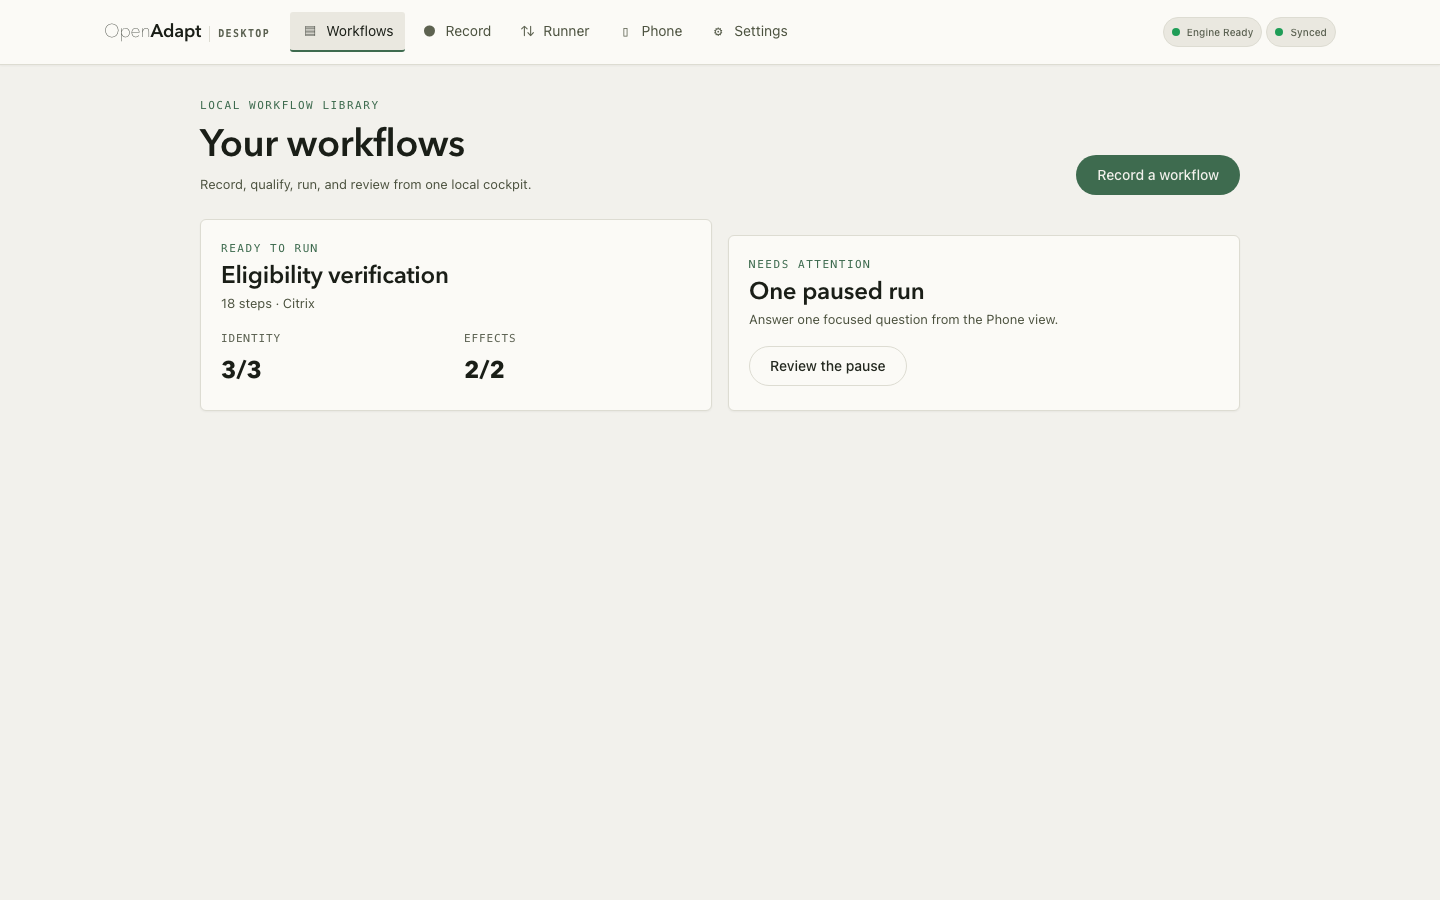
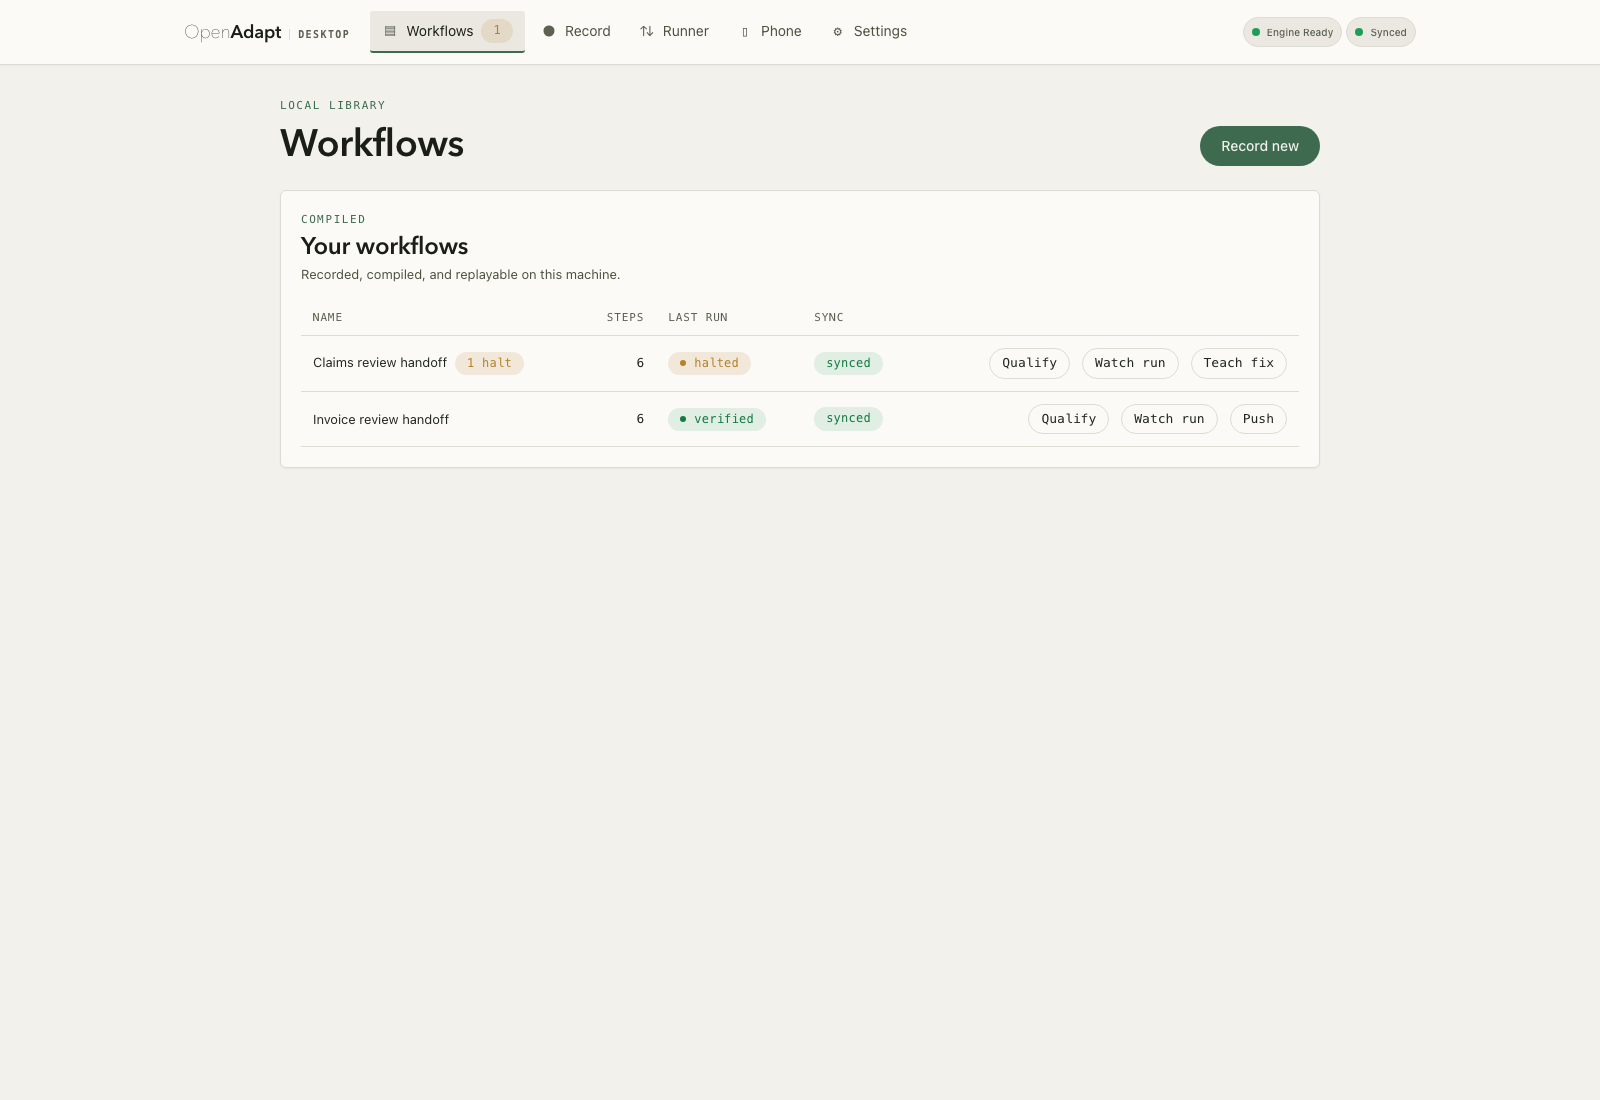
docs: bind desktop visual provenance

diff --git a/docs/desktop/install.md b/docs/desktop/install.md
@@ -105,8 +105,8 @@ The [troubleshooting guide](../guides/troubleshooting.md) covers these and other
 first-week failures.
 
 <figure markdown="span">
-  ![The Desktop workflow cockpit shows one ready workflow with complete identity and effect qualification counts, and one paused run awaiting review.](../assets/ui/desktop-qualification-cockpit.png){ width="900" }
-  <figcaption>A focused synthetic Desktop capture: a workflow is ready only after its declared identity and effect checks are complete; a paused run stays separate for review.</figcaption>
+  ![The Desktop workflow cockpit lists local workflows with their last run state, sync state, and actions to qualify, watch, teach, or push.](../assets/ui/desktop-qualification-cockpit.png){ width="900" }
+  <figcaption>A focused synthetic Desktop capture: the local workflow list keeps qualification, run review, teaching, and push actions with each workflow.</figcaption>
 </figure>
 
 ## During a governed run
